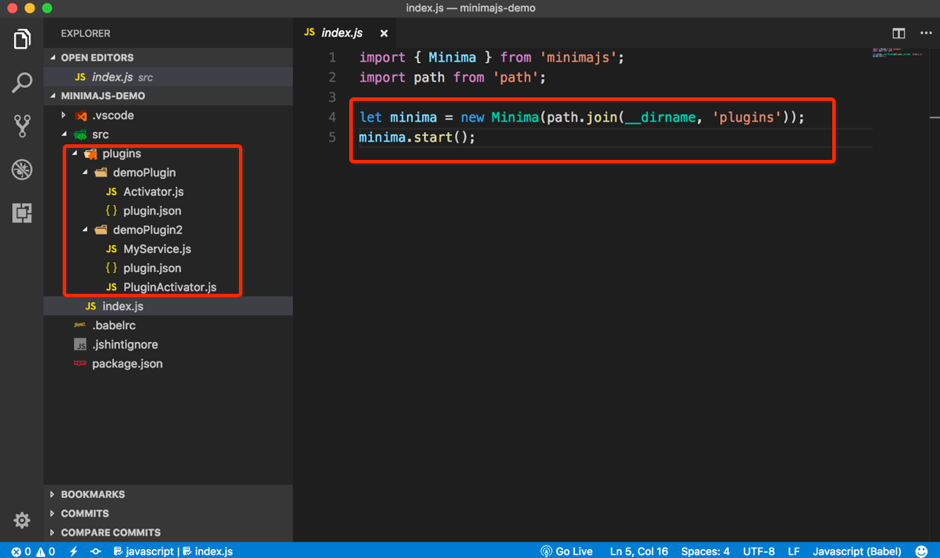
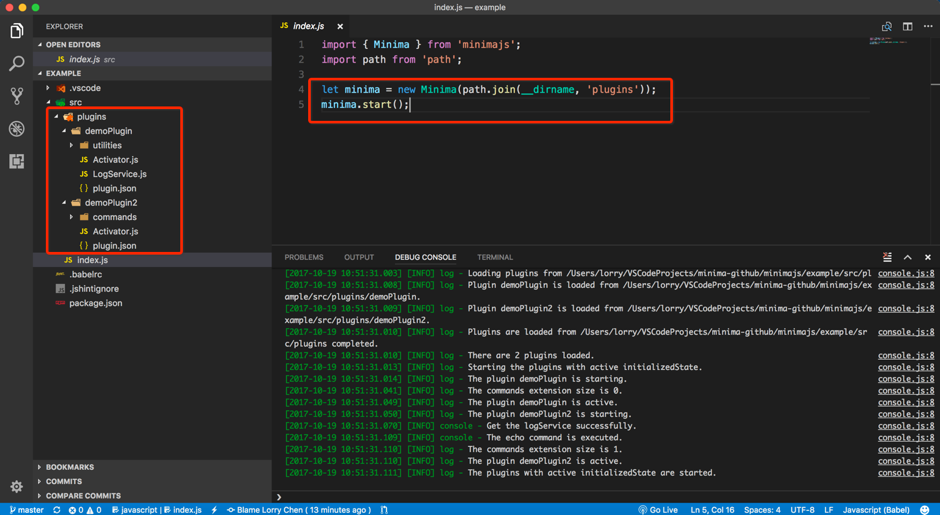
Change the readme.

diff --git a/example/src/plugins/demoPlugin2/Activator.js b/example/src/plugins/demoPlugin2/Activator.js
@@ -1,4 +1,4 @@
-import { Extension, ExtensionAction, PluginContext, log } from 'minimajs';
+import { PluginContext, log } from 'minimajs';
 
 export default class Activator {
     static logService = null;

diff --git a/README.md b/README.md
@@ -51,25 +51,22 @@ Create a simple plugin in plugins directory as below.
 // 1 plugin.json
 {
     "id": "demoPlugin",
-    "startLevel": 3,
-    "version": "1.0.0"
+    "startLevel": 5,
+    "version": "1.0.0",
+    "services": [{
+        "name": "logService",
+        "service": "LogService.js"
+    }]
 }
 // 2 Activator.js
-import { ServiceAction, ExtensionAction, PluginContext, Plugin, log } from 'minimajs';
+import { Minima, Extension, ExtensionAction, PluginContext, log } from 'minimajs';
 
 export default class Activator {
-    /**
-     * 插件上下文缓存
-     * 
-     * @type {PluginContext}
-     * @static
-     * @memberof Activator
-     */
-    static context = null;
     constructor() {
         this.start = this.start.bind(this);
         this.stop = this.stop.bind(this);
-        this.serviceChangedListener = this.serviceChangedListener.bind(this);
+
+        this.handleCommandExtensions = this.handleCommandExtensions.bind(this);
         this.extensionChangedListener = this.extensionChangedListener.bind(this);
     }
 
@@ -80,59 +77,26 @@ export default class Activator {
      * @memberof Activator
      */
     start(context) {
-        Activator.context = context;
-        Activator.context.addServiceChangedListener(this.serviceChangedListener);
-        Activator.context.addExtensionChangedListener(this.extensionChangedListener);
-        log.logger.info(`INFO: The plugin ${context.plugin.id} is started.`);
+        context.addExtensionChangedListener(this.extensionChangedListener);
+        this.handleCommandExtensions();
     }
 
-    /**
-     * 服务监听器
-     * 
-     * @param {string} name 服务名称
-     * @param {ServiceAction} action 服务变化活动
-     * @memberof Activator
-     */
-    serviceChangedListener(name, action) {
-        if (name === 'myService' && action === ServiceAction.ADDED) {
-            let myService = Activator.context.getDefaultService(name);
-            if (myService) {
-                log.logger.info(`Get the myService instance successfully.`);
-            }
-        } else if (action === ServiceAction.REMOVED) {
-            log.logger.info(`The service ${name} is removed.`);
+    handleCommandExtensions() {
+        let extensions = Minima.instance.getExtensions('commands');
+        for (let extension of extensions) {
+            let Command = extension.owner.loadClass(extension.data.command).default;
+            let command = new Command();
+            command.run();
         }
+
+        log.logger.info(`The commands extension size is ${extensions.size}.`);
     }
 
-    /**
-     * 扩展变更监听器
-     * 
-     * @param {Extension} extension 扩展对象
-     * @param {ExtensionAction} action 扩展对象变化活动
-     * @memberof Activator
-     */
     extensionChangedListener(extension, action) {
-        if (action === ExtensionAction.ADDED) {
-            log.logger.info(`The extension ${extension.id} is added.`);
-            let extensions = Activator.context.getExtensions('myExtension');
-            log.logger.info(`The extension count is ${extensions.size}.`);
-        }
-
-        if (action === ExtensionAction.REMOVED) {
-            log.logger.info(`The extension ${extension.id} is removed.`);
-        }
+        this.handleCommandExtensions();
     }
 
-    /**
-     * 插件出口
-     * 
-     * @param {PluginContext} context 插件上下文
-     * @memberof Activator
-     */
-    stop(context) {
-        Activator.context = null;
-        log.logger.info(`INFO: The plugin ${context.plugin.id} is stopped.`);
-    }
+    stop(context) {}
 }
 ```
 
@@ -142,83 +106,48 @@ Then building another plugin as below.
 // 1 plugin.config
 {
     "id": "demoPlugin2",
-    "name": "demoPlugin2Test",
-    "description": "The demo plugin2.",
-    "version": "1.0.1",
-    "startLevel": 5,
-    "initializedState": "active",
-    "activator": "PluginActivator.js",
+    "version": "1.0.0",
     "dependencies": [{
         "id": "demoPlugin",
         "version": "1.0.0"
     }],
-    "services": [{
-        "name": "myService",
-        "service": "MyService.js",
-        "properties": {
-            "vendor": "lorry"
-        }
-    }],
     "extensions": [{
-        "id": "myExtension",
+        "id": "commands",
         "data": {
-            "extensionData": "lorry"
-        }
-    }, {
-        "id": "myExtension2",
-        "data": {
-            "extensionData": "lorry2"
+            "name": "echo",
+            "command": "commands/EchoCommand.js"
         }
     }]
 }
-// 2 MyService.js
-export default class MyService {
+// 2 Activator.js
+import { PluginContext, log } from 'minimajs';
 
-}
-// 3 PluginActivator.js
-import { ServiceAction, PluginContext, Plugin, log } from 'minimajs';
+export default class Activator {
+    static logService = null;
 
-export default class PluginActivator {
     constructor() {
         this.start = this.start.bind(this);
         this.stop = this.stop.bind(this);
-        this.serviceChanged = this.serviceChanged.bind(this);
     }
 
     /**
-     * 启动插件
+     * 插件入口
      * 
      * @param {PluginContext} context 插件上下文
-     * @memberof PluginActivator
+     * @memberof Activator
      */
     start(context) {
-        log.logger.info(`INFO: The plugin ${context.plugin.id} is started.`);
-        context.addServiceChangedListener(this.serviceChangedListener);
-    }
-
-    /**
-     * 服务监听
-     * 
-     * @param {string} name 服务名称
-     * @param {ServiceAction} action 服务活动
-     * @memberof PluginActivator
-     */
-    serviceChangedListener(name, action) {
-        if (action === ServiceAction.ADDED) {
-            log.logger.info(`Service ${name} is register.`);
-        } else {
-            log.logger.info(`Service ${name} is unregister.`);
+        let logService = context.getDefaultService('logService');
+        if (!logService) {
+            throw new Error('The logServie can not be null.');
         }
+        Activator.logService = logService;
+
+        logService.log('Get the logService successfully.');
     }
 
-    /**
-     * 停止插件
-     * 
-     * @param {PluginContext} context 插件上下文
-     * @memberof PluginActivator
-     */
     stop(context) {
-        log.logger.info(`INFO: The plugin ${context.plugin.id} is stopped.`);
+
     }
 }
 ```
